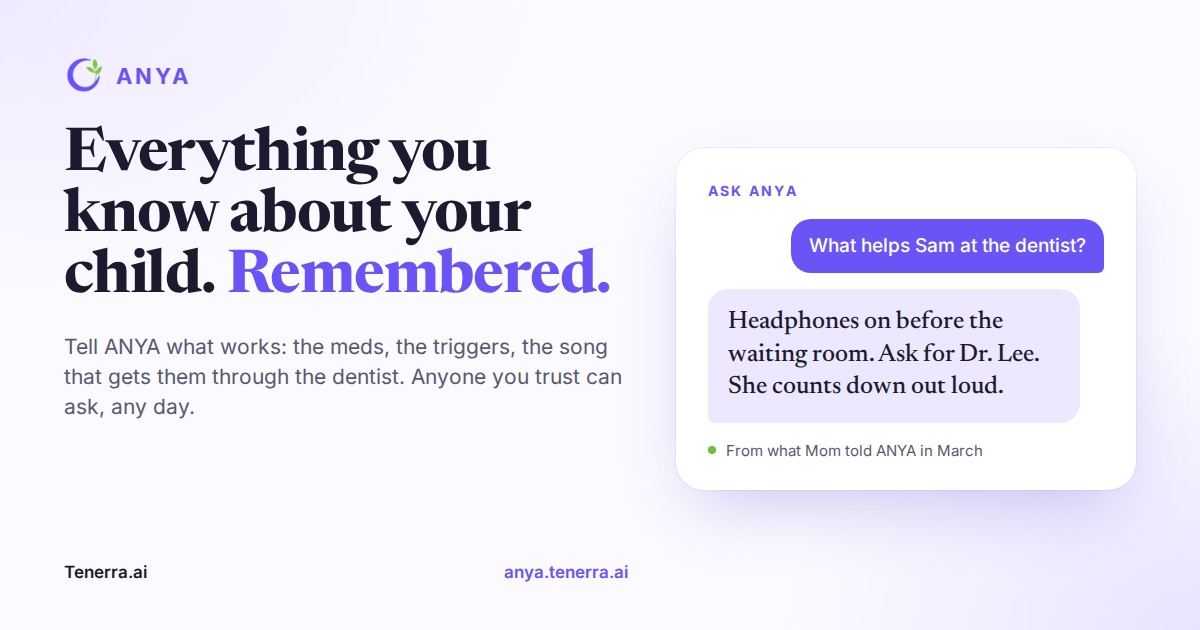
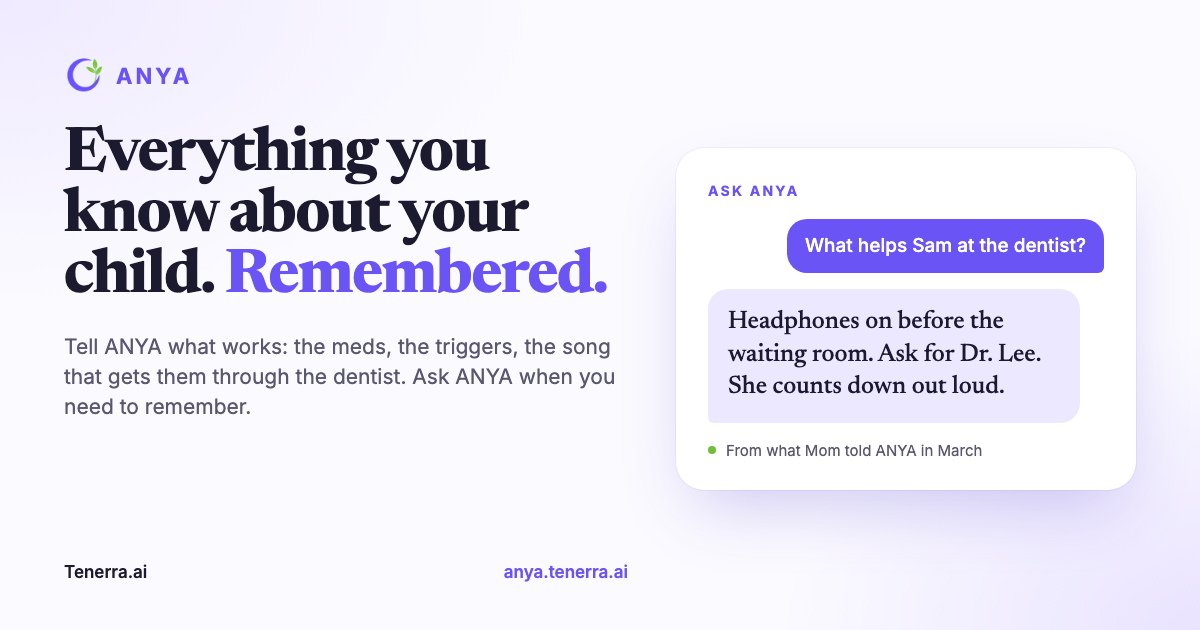
Make ANYA card rendering reproducible and narrow access copy

diff --git a/assets/og/anya-og.html b/assets/og/anya-og.html
@@ -96,7 +96,7 @@
   <div class="left">
     <div class="brand"><img src="../images/tenerra-logo.png" alt=""><span>ANYA</span></div>
     <h1>Everything you know about your child. <em>Remembered.</em></h1>
-    <p class="sub">Tell ANYA what works: the meds, the triggers, the song that gets them through the dentist. Anyone you trust can ask, any day.</p>
+    <p class="sub">Tell ANYA what works: the meds, the triggers, the song that gets them through the dentist. Ask ANYA when you need to remember.</p>
     <div class="foot"><span>Tenerra.ai</span><span class="url">anya.tenerra.ai</span></div>
   </div>
   <div class="right">

diff --git a/assets/og/render.js b/assets/og/render.js
@@ -1,7 +1,7 @@
 // Renders anya-og.html to assets/images/anya-og.png (1200x630). Run: node assets/og/render.js
 // Google Fonts requests are fetched via curl so they go through the environment proxy.
-const { execFileSync, execSync } = require('child_process');
-const { chromium } = require(execSync('npm root -g').toString().trim() + '/playwright');
+const { execFileSync } = require('child_process');
+const { chromium } = require('playwright');
 (async () => {
   const b = await chromium.launch();
   const p = await b.newPage({ viewport: { width: 1200, height: 630 } });

diff --git a/README.md b/README.md
@@ -1,2 +1,14 @@
 # tenerra-geo
 GEO / HCOS category authority
+
+## ANYA social image
+
+The source for `assets/images/anya-og.png` is `assets/og/anya-og.html`. To regenerate the image from a fresh checkout:
+
+```sh
+npm ci
+npx playwright install chromium
+npm run render:og
+```
+
+Rendering also requires `curl` and network access to Google Fonts. The image is not yet wired into page metadata.
